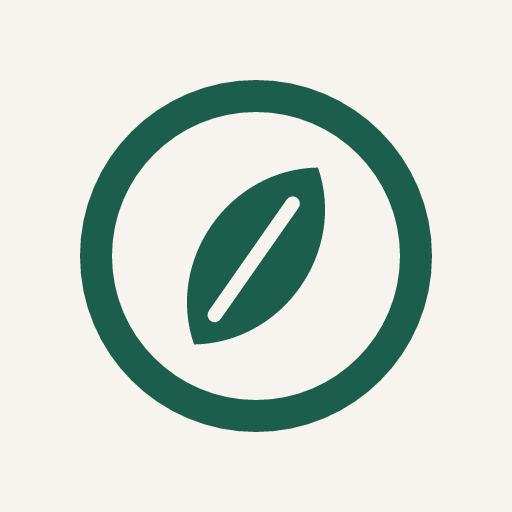
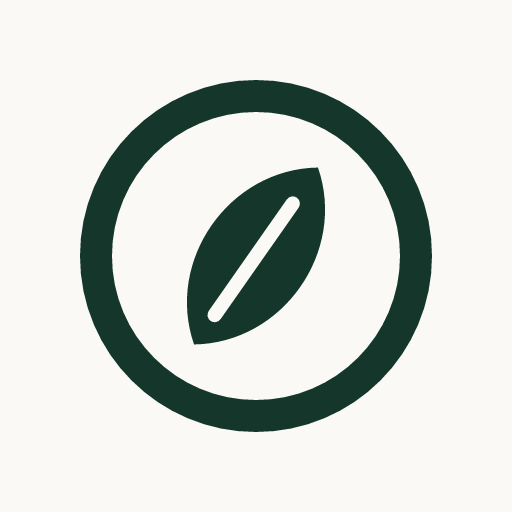
fix(pwa): the installed app's description and colours match Lishe today
- The install description names daily feeding and food stock records,
  not the retired attendance and meals pages
- Theme and background colours are the botanical pine and off-white
  from the tokens, in the manifest, the page and the favicon
- The app icons are recoloured to the same pine and off-white

Changed region(s): [[0.1562, 0.1562, 0.8438, 0.8438], [0.3438, 0.3125, 0.6562, 0.6875]]

diff --git a/frontend/vite.config.js b/frontend/vite.config.js
@@ -15,10 +15,10 @@ export default defineConfig({
         name: 'Lishe – School Feeding',
         short_name: 'Lishe',
         description:
-          'Every meal counted, even offline. Attendance and meal records for school feeding programmes.',
-        // Brand green and cream (--color-brand and --color-bg in src/styles/tokens.css)
-        theme_color: '#1b5e4b',
-        background_color: '#f7f4ef',
+          'Every meal counted, even offline. Daily feeding and food stock records for school feeding programmes.',
+        // Botanical pine and warm off-white (--color-brand and --color-bg in src/styles/tokens.css)
+        theme_color: '#14362b',
+        background_color: '#faf9f6',
         lang: 'en',
         display: 'standalone',
         orientation: 'any',

diff --git a/frontend/index.html b/frontend/index.html
@@ -3,10 +3,10 @@
   <head>
     <meta charset="UTF-8" />
     <meta name="viewport" content="width=device-width, initial-scale=1.0, viewport-fit=cover" />
-    <meta name="theme-color" content="#1b5e4b" />
+    <meta name="theme-color" content="#14362b" />
     <meta
       name="description"
-      content="Lishe: every meal counted, even offline. Attendance and meal records for school feeding programmes."
+      content="Lishe: every meal counted, even offline. Daily feeding and food stock records for school feeding programmes."
     />
     <meta name="apple-mobile-web-app-title" content="Lishe" />
     <link rel="manifest" href="/manifest.webmanifest" />
